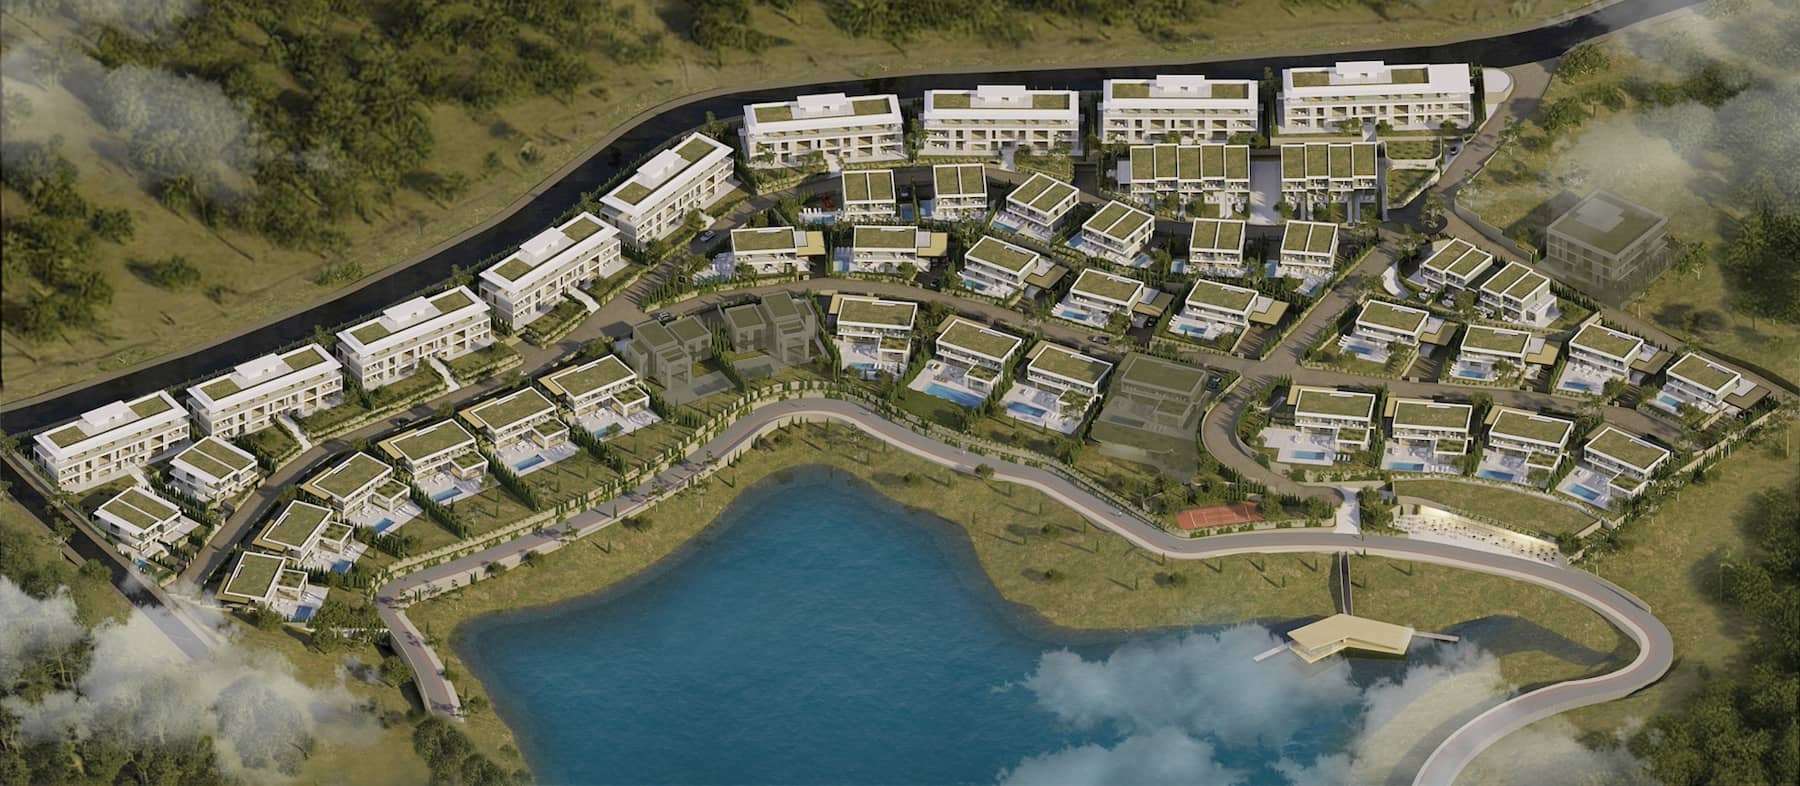
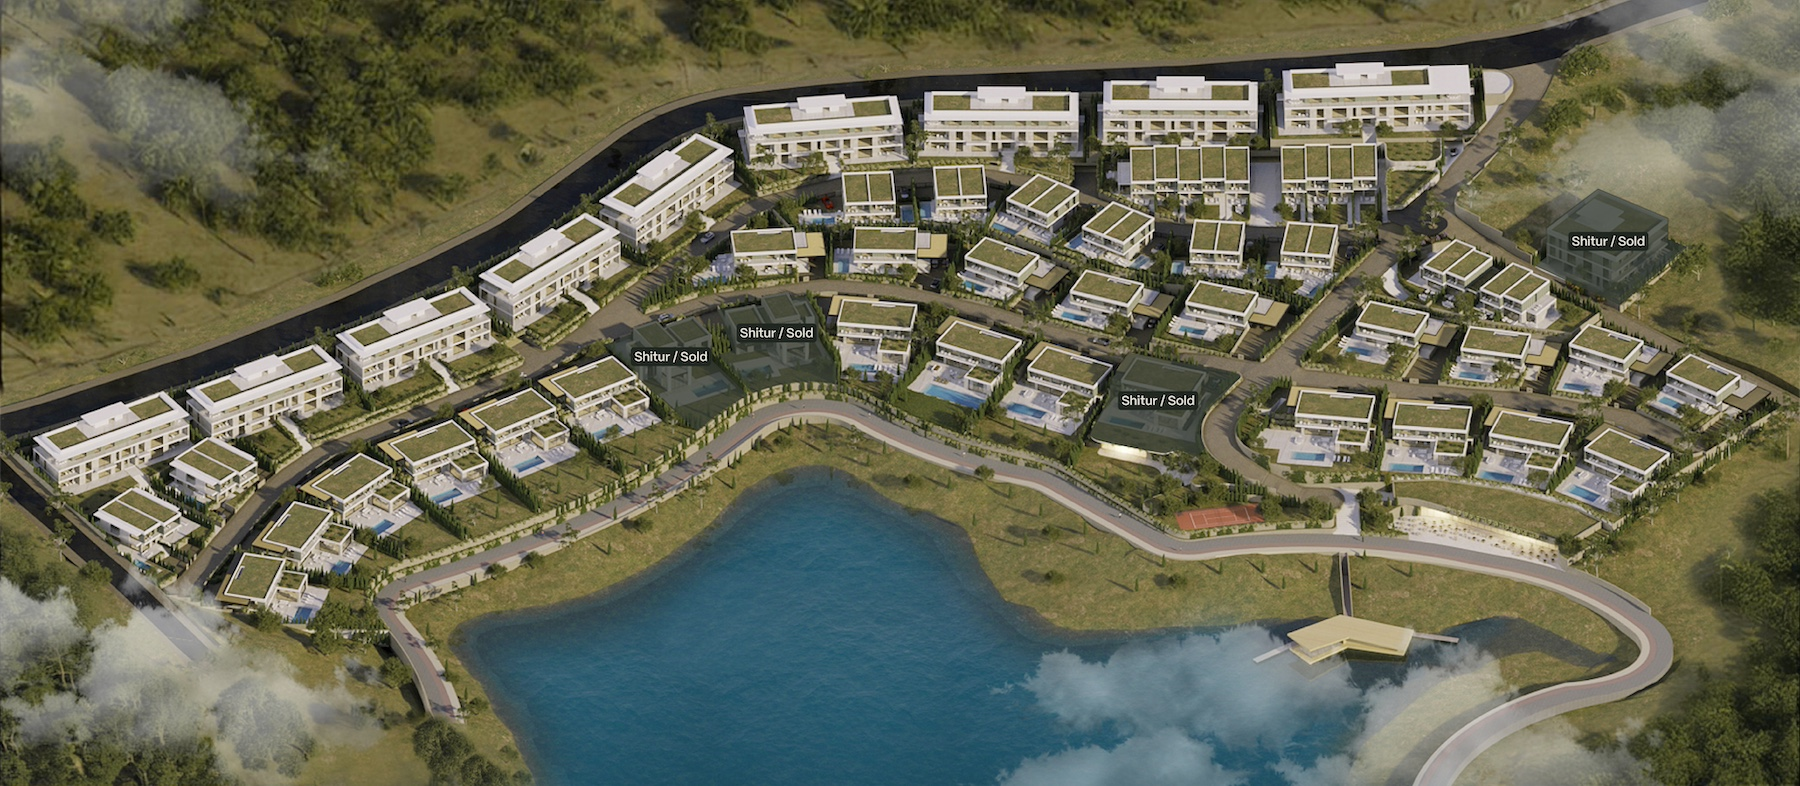
Update main graphic

diff --git a/resources/views/partials/explorer/explorer.blade.php b/resources/views/partials/explorer/explorer.blade.php
@@ -42,9 +42,9 @@
                     <img src="@asset('images/explorer/explorer_main.jpg')" usemap="#image-map" class="map" id="mainExplorerImage">
 
                     <map name="image-map">
-                        <area href="#leftModalWindow" alt="Left Side" title="Left Side" coords="5,434,83,533,210,610,344,634,417,540,568,478,665,431,800,373,834,372,735,101,664,98,489,213,398,259" shape="poly">
-                        <area href="#centerModalWindow" alt="Center" title="Center" coords="746,97,769,151,789,206,816,284,839,346,850,375,971,416,1071,440,1153,462,1206,462,1540,57,1495,50" shape="poly">
-                        <area href="#rightModalWindow" alt="Right" title="Right" coords="1262,447,1282,465,1316,479,1346,481,1389,479,1416,479,1451,477,1487,482,1532,490,1572,496,1595,511,1619,516,1675,484,1780,401,1697,345,1599,302,1533,259,1473,220,1454,218,1395,264,1335,328,1292,382,1263,419" shape="poly">
+                        <area target="" alt="Left" title="Left" href="#leftModalWindow" coords="18,454,31,479,75,527,118,567,153,592,193,616,239,638,327,646,379,640,396,635,381,613,374,591,392,578,414,570,457,557,503,541,581,508,637,483,695,443,734,414,773,398,837,390,858,390,846,362,832,327,826,290,821,257,804,230,784,212,754,182,742,153,730,131,713,123,676,139,613,187,595,206,552,225,511,250,460,274,400,306,139,401,86,416,31,441" shape="poly">
+                        <area target="" alt="Middle" title="Middle" href="#centerModalWindow" coords="723,115,748,158,774,196,791,217,823,255,828,281,832,309,842,341,855,364,863,384,886,391,896,410,923,424,963,434,1007,446,1039,454,1076,472,1104,489,1138,507,1162,524,1192,529,1254,529,1316,529,1330,512,1259,483,1216,459,1201,432,1238,378,1278,335,1354,262,1430,184,1510,87,1503,71,1486,66,1390,63,1332,64,1271,69,1130,79,1072,85,996,87,942,88,826,93,753,106" shape="poly">
+                        <area target="" alt="Right" title="Right" href="#rightModalWindow" coords="1333,515,1370,500,1405,499,1464,516,1516,530,1546,542,1575,548,1608,529,1688,472,1753,430,1780,411,1791,387,1686,343,1619,311,1680,255,1670,215,1600,192,1556,214,1526,238,1462,198,1492,163,1443,219,1398,256,1373,276,1352,300,1328,322,1311,345,1292,369,1278,378,1251,408,1239,424,1243,451,1255,467,1289,491" shape="poly">
                     </map>
                 </div>
             </div>
